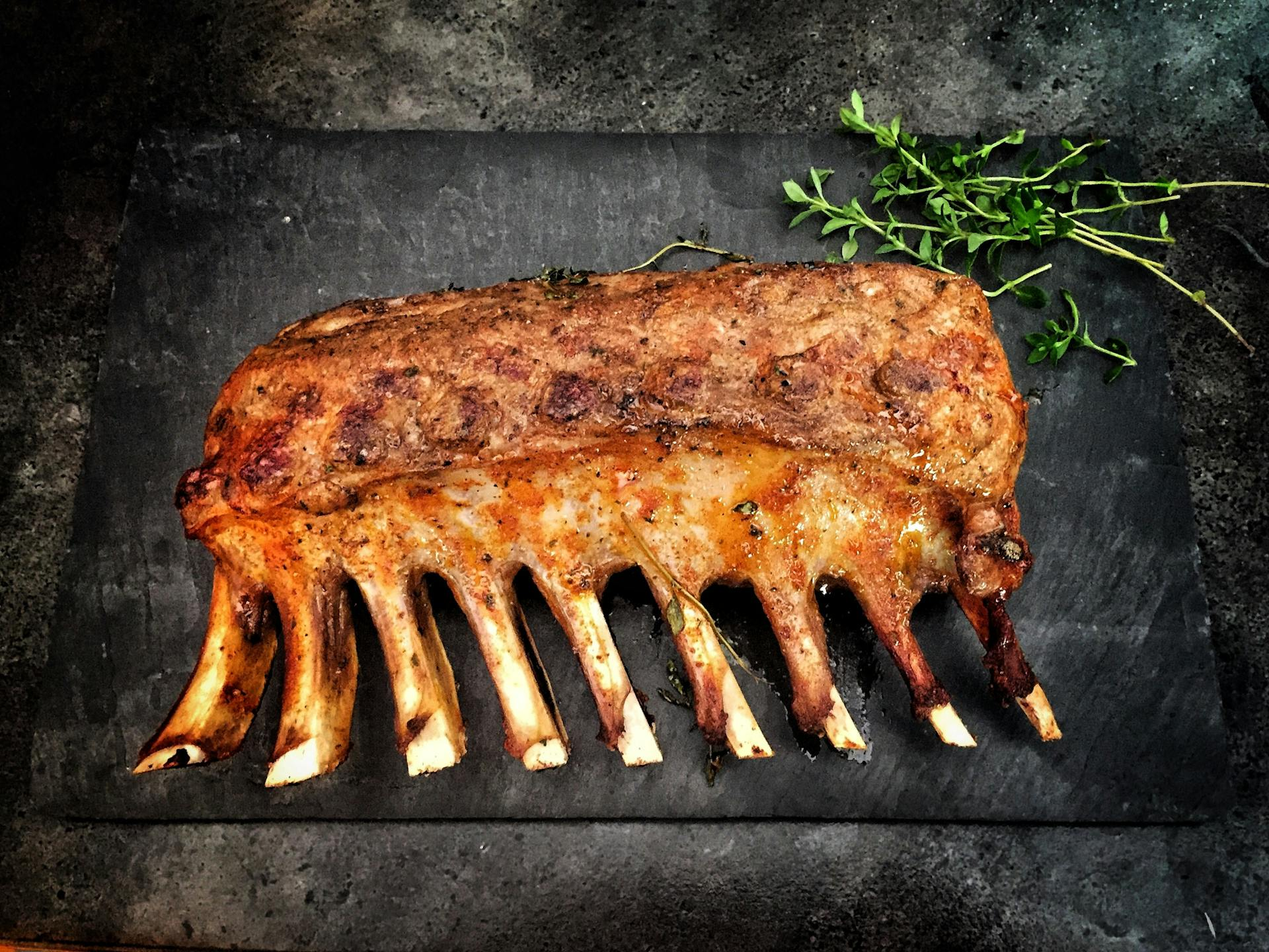
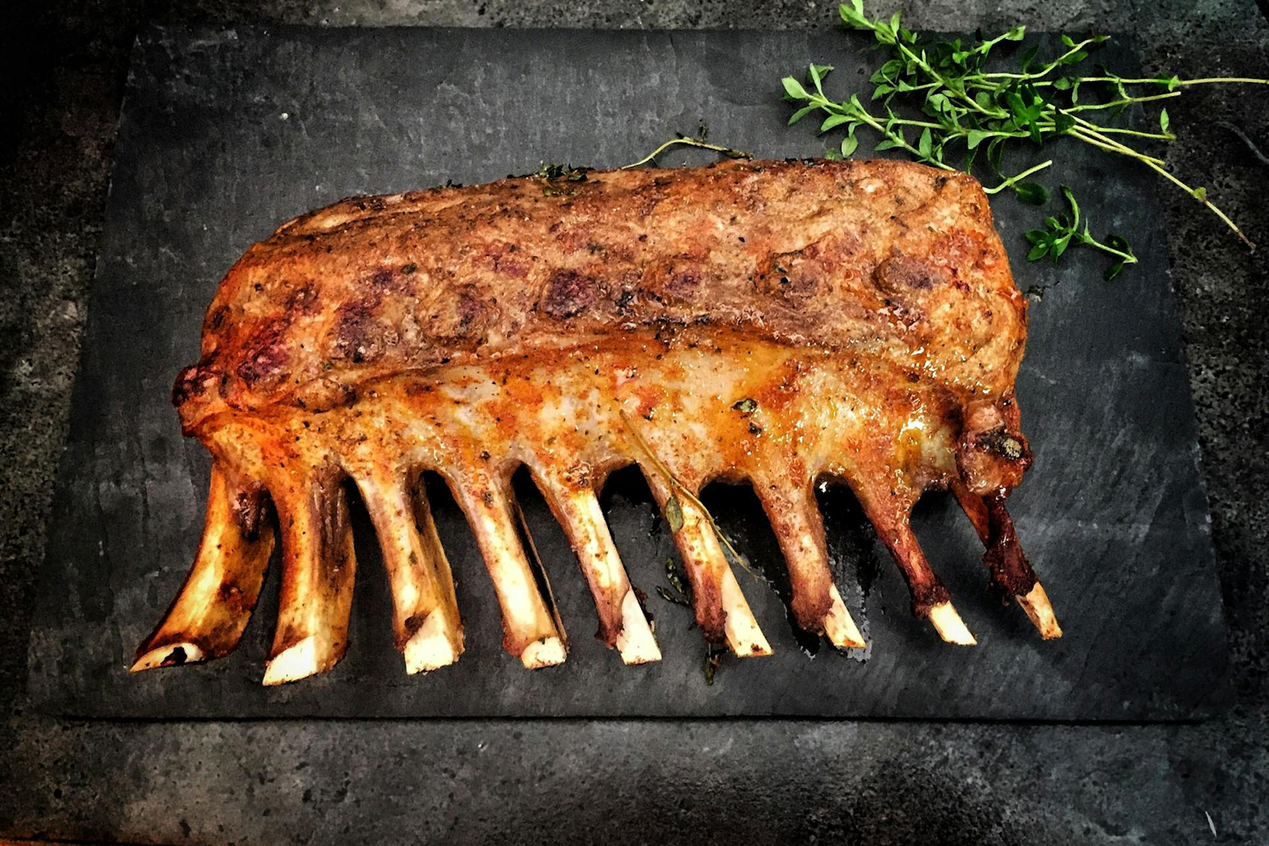
Corrigndo o tamnho da imagem que estava no carrossel.

diff --git a/index.html b/index.html
@@ -189,7 +189,7 @@
                 <!-- Card Produto -->
                 <div class="col-sm-6 col-md-4 mb-4">
                     <div class="card border border-0">
-                        <img src="./images/chuleta.png" alt="Picanha ao alho" class="card-img-top">
+                        <img src="./images/chuleta.jpg" alt="Picanha ao alho" class="card-img-top">
                         <div class="card-body bg-dark text-white">
                             <h3 class="card-title">Chuleta</h3>
                             <p class="card-text text-start">
